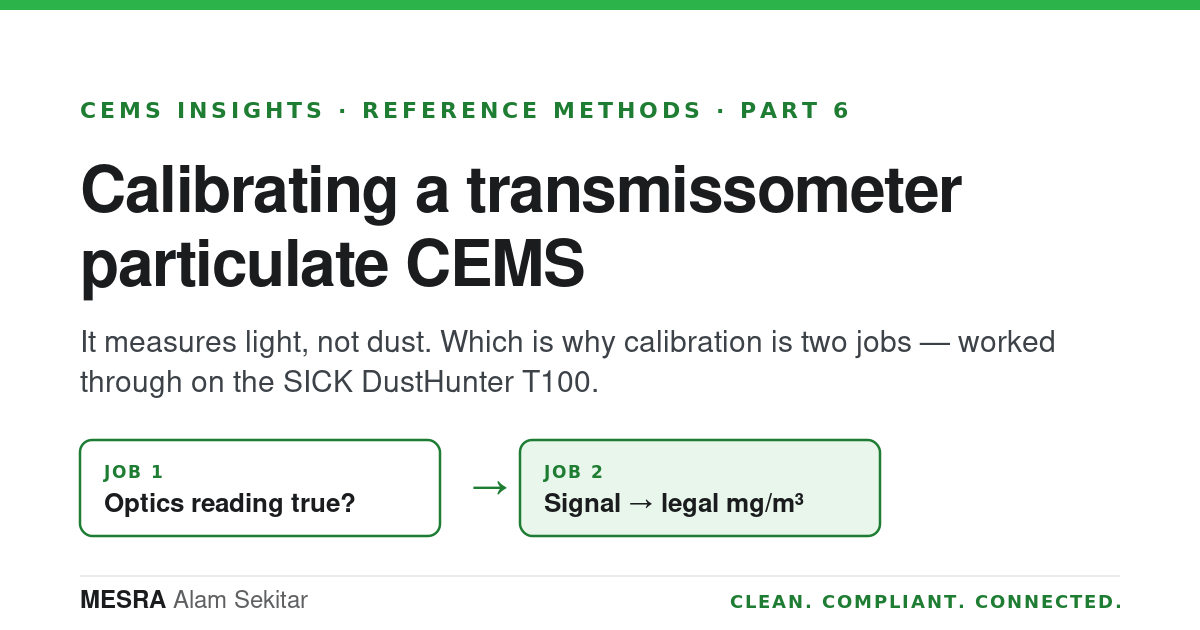
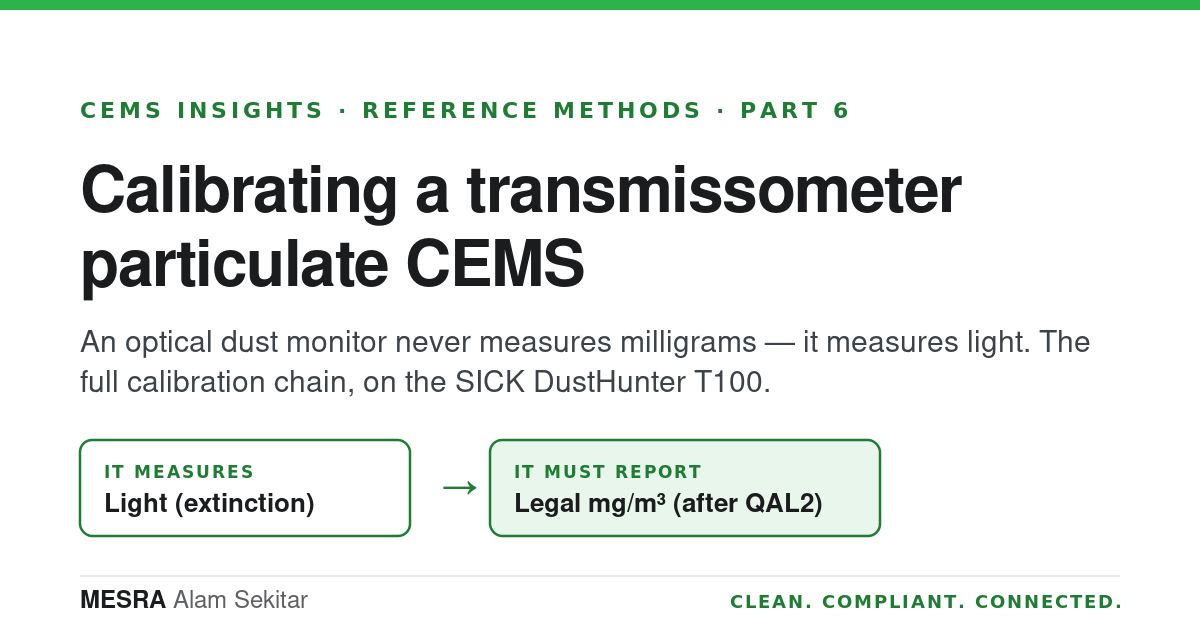
Dedupe transmissometer calibration posts; keep dust-CEMS version as reference-methods Part 6
Two near-identical calibration posts were live for the same topic. Keep the
stronger five-link version and remove the duplicate.

- Delete duplicate -tpm-cems- post
- Retag surviving -dust-cems- post: dust-cems/2 (series never existed) ->
  reference-methods/6; rewrite series intro line
- series.yml: reference-methods total 5 -> 6
- Convert its raw markdown table to .fig.report (site has no table CSS)
- Sharpen R2 section with the low-level-cluster carve-out (§5.3.9)
- Fix contact CTA to house pattern; add OG image front matter
- Repoint inbound links (in-situ-anatomy, qal1-certificate) to surviving slug
- Update OG card wording to match; last_modified_at bumps on the two edited
  2026-07-10 posts

Changed region(s): [[0.0617, 0.5127, 0.925, 0.6333], [0.3392, 0.6937, 0.7092, 0.8746], [0.0925, 0.7238, 0.3083, 0.8143]]

diff --git a/_posts/2026-07-14-calibrating-transmissometer-dust-cems-dusthunter-t100.md b/_posts/2026-07-14-calibrating-transmissometer-dust-cems-dusthunter-t100.md
@@ -4,11 +4,12 @@ title: "Calibrating a transmissometer dust CEMS: from light beam to legal mg/m³
 full_title: "How to Calibrate a Transmissometer Dust CEMS (DustHunter T100) | Mesra"
 date: 2026-07-14 00:05:00
 description: "An optical dust monitor never measures milligrams — it measures light. The full calibration chain for a transmissometer TPM CEMS, worked through on the SICK DustHunter T100: normalisation, linearity, initial setting, QAL2 and QAL3."
-series: dust-cems
-part: 2
+image: /assets/og/calibrating-transmissometer-t100.png
+series: reference-methods
+part: 6
 ---
 
-*Dust CEMS in practice — Part 2 of 3. A hands-on track for operators running an optical dust monitor, using the SICK DustHunter T100 — the double-pass transmissometer we install on biomass boilers — as the worked example throughout.*
+*The reference methods behind your CEMS — Part 6. A hands-on walk-through for operators running an optical dust monitor, using the SICK DustHunter T100 — the double-pass transmissometer we install on biomass boilers — as the worked example throughout. Drawn from the DOE CEMS Guidelines (Version 8, 2025), which we helped develop.*
 
 Here is the fact that every other question about dust-CEMS calibration hangs from: **a transmissometer never measures dust concentration.** It measures light. The DustHunter T100's own QAL1 certificate says so in one sentence — *"the measuring system uses the measured quantities of transmission, opacity and extinction, wherein transmission is determined as the primary optical quantity."* Every mg/m³ figure the instrument will ever report to DOE is a *derived* number, and the thing that derives it — the calibration function — is built on your stack, on your process, against manual gravimetric sampling.
 
@@ -20,7 +21,7 @@ The physics first, because it explains everything downstream. A transmissometer 
 
 Proportional — but with a proportionality constant that belongs to *your* dust. The DOE Guidelines put it plainly: the concentration calibration factor of an optical extinction instrument is *"dependent on particle size, composition, shape, colour and refractive index"* (Guidelines V8, Table 3.2). Fly ash from EFB fibre, sawdust char and rubberwood smoke all attenuate light differently per milligram. No factory, and no test dust, can know that constant in advance — which is why the same table says a transmissometer *"gives a measure of particulate concentration after calibration with gravimetric SRM."*
 
-There's an honest reminder of this printed inside the T100's own certificate: during EN 15267-3 suitability testing, the requirement on the determination coefficient R² of the *laboratory* calibration function was noted as not fulfilled — lab test dust simply isn't your flue gas. The certificate passes the system anyway, on the strength of everything else, because the calibration that legally matters is never the laboratory one. It's the one performed on your stack, which is the subject of the rest of this post.
+There's an honest reminder of this printed inside the T100's own certificate: during EN 15267-3 suitability testing, the requirement on the determination coefficient R² of the *laboratory* calibration function was noted as not fulfilled. Read cold, that sounds alarming — but it's a statistical artefact, not a fault, and it's worth understanding because you'll meet the same effect on your own stack. When dust concentrations are low and tightly clustered, there's little spread for a regression line to "explain," so R² falls even when the instrument is behaving perfectly. The DOE Guidelines carve out exactly this case: an R² below 0.9 *"does not necessarily indicate a QAL2 failure when the emissions are low level cluster,"* and *"the variability test shall always be considered as the definitive test"* (§5.3.9). The same certificate shows the system passing the metric that actually counts — a total expanded uncertainty of **8.1% of the ELV against a 22.5% allowance** (more on that below). The lesson carries straight to site work: judge a transmissometer's calibration on the variability test and uncertainty, never on R² alone. The calibration that legally matters is never the laboratory one anyway — it's the one performed on your stack, which is the subject of the rest of this post.
 
 <figure class="fig flow">
 <p class="fig-title">The five links in the dust-CEMS calibration chain</p>
@@ -92,15 +93,37 @@ A calibration function is a snapshot. Two ongoing procedures keep it honest.
 
 ## The chain on one page
 
-| Link | What's calibrated | Against what | Minimum frequency | Who |
-|---|---|---|---|---|
-| QAL1 | Instrument design | EN 15267 lab + field test | Once (certificate validity) | Manufacturer + TÜV/MCERTS |
-| Normalisation + linearity | Optical zero, span, straightness | Clean path + certified filter glasses | Install, then per service/QAL3 cycle | Installer / operator |
-| Initial setting | First mg/m³ scale | ≥5 gravimetric SRM runs | At installation | Stack-test team |
-| QAL2-CVT | Legal calibration function + valid range | ≥15 gravimetric SRM runs over 3 days | Before data connection; on trigger events | DOE-registered CEMS tester |
-| QAL3 | Drift control | Zero point + filter glasses, control charts | ≤ maintenance interval (3 months for T100); DOE recommends 4-weekly | Operator |
-| AST | Calibration function still valid | Reduced SRM campaign | Yearly | DOE-registered CEMS tester |
+<figure class="fig report">
+<p class="fig-title">The calibration chain on one page</p>
+<div class="rep-rows">
+  <div class="rep-row">
+    <span class="rep-k">1</span>
+    <span class="rep-body"><span class="rep-name">QAL1 — instrument design</span><span class="rep-desc">Proven against the EN 15267 lab + field test. Once, for the certificate's validity. By the manufacturer + TÜV/MCERTS.</span></span>
+  </div>
+  <div class="rep-row">
+    <span class="rep-k">2</span>
+    <span class="rep-body"><span class="rep-name">Normalisation + linearity — optical zero, span, straightness</span><span class="rep-desc">Against a clean path + certified filter glasses. At install, then every service / QAL3 cycle. By the installer / operator. Produces no mg/m³.</span></span>
+  </div>
+  <div class="rep-row">
+    <span class="rep-k">3</span>
+    <span class="rep-body"><span class="rep-name">Initial setting — first mg/m³ scale</span><span class="rep-desc">Against ≥5 gravimetric SRM runs. At installation. By the stack-test team. A working scale, no legal weight.</span></span>
+  </div>
+  <div class="rep-row hl">
+    <span class="rep-k">4</span>
+    <span class="rep-body"><span class="rep-name">QAL2-CVT — legal calibration function + valid range</span><span class="rep-desc">Against ≥15 gravimetric SRM runs over 3 days. Before data connection, and on trigger events. By a DOE-registered CEMS tester. This is the one that counts.</span></span>
+  </div>
+  <div class="rep-row">
+    <span class="rep-k">5</span>
+    <span class="rep-body"><span class="rep-name">QAL3 — drift control</span><span class="rep-desc">Zero point + filter glasses, plotted on control charts. At most every maintenance interval (3 months for the T100); DOE recommends 4-weekly. By the operator.</span></span>
+  </div>
+  <div class="rep-row">
+    <span class="rep-k">6</span>
+    <span class="rep-body"><span class="rep-name">AST — calibration function still valid</span><span class="rep-desc">A reduced SRM campaign re-checking the QAL2 function. Yearly. By a DOE-registered CEMS tester.</span></span>
+  </div>
+</div>
+<figcaption>Six procedures, one purpose: making a light measurement legally mean milligrams per cubic metre. Only after link 4 does the data legally count.</figcaption>
+</figure>
 
 The instrument measures light superbly — the certificate proves that once, at the factory. Whether that light legally means milligrams on *your* stack is decided by this chain, and most of its links are recurring site work, not equipment features. It's also, in our experience, where dust-CEMS compliance is genuinely won or lost: not in the brochure comparison, but in whether the filter glasses are certified and dedicated, the SRM conversions are done on the right basis, and the control chart actually gets plotted.
 
-If you're commissioning a transmissometer, planning a QAL2 on a biomass boiler, or staring at a control chart that's wandering — [talk to us]({{ '/#contact' | relative_url }}). Calibration is the part of this business we'd rather you get right the first time.
+If you're commissioning a transmissometer, planning a QAL2 on a biomass boiler, or staring at a control chart that's wandering — [talk to us]({{ '/' | relative_url }}#contact). Calibration is the part of this business we'd rather you get right the first time.

diff --git a/_posts/2026-07-10-in-situ-cems-installation-anatomy.md b/_posts/2026-07-10-in-situ-cems-installation-anatomy.md
@@ -3,6 +3,7 @@ layout: post
 title: "Anatomy of an in-situ CEMS install: what's actually on the stack"
 full_title: "Anatomy of an In-Situ CEMS Install | Mesra"
 date: 2026-07-10 00:05:00
+last_modified_at: 2026-07-14
 description: "Analyser, purge air, MCU, DAS and power distribution — what a double-pass in-situ CEMS installation actually looks like on a biomass boiler stack, using the SICK DustHunter T100 as a worked example."
 ---
 
@@ -78,7 +79,7 @@ Both the analyser and the DAS need power, usually from a dedicated **power distr
 
 None of this hardware is arbitrary. Where the analyser sits on the duct is governed by the [siting and measurement-plane rules]({{ '/insights/cems-siting-sample-ports-measurement-plane/' | relative_url }}) we cover separately — straight-length from disturbances, distance from the wall, access platform. Which sampling method it uses at all is a choice you have to [justify to DOE]({{ '/insights/how-cems-measures-extractive-in-situ-sampling/' | relative_url }}) under §3.2, submitted with the equipment's QAL1 certificate. And once it's wired up, the DAS's own output feeds directly into the CEMS-DIS chain we've written about separately — the same 75%-availability validity rule applies at both ends.
 
-Get any one piece wrong — a single-pass analyser, an undersized purge air supply, a DAS that can't produce the right averages — and the problem doesn't show up as a design flaw. It shows up months later, as a failed QAL2 or a registration DOE won't approve. Once the hardware is right, the next question is making it read true: how a transmittance system like this is [calibrated from light beam to legal mg/m³]({{ '/insights/calibrating-transmissometer-tpm-cems-dusthunter-t100/' | relative_url }}).
+Get any one piece wrong — a single-pass analyser, an undersized purge air supply, a DAS that can't produce the right averages — and the problem doesn't show up as a design flaw. It shows up months later, as a failed QAL2 or a registration DOE won't approve. Once the hardware is right, the next question is making it read true: how a transmittance system like this is [calibrated from light beam to legal mg/m³]({{ '/insights/calibrating-transmissometer-dust-cems-dusthunter-t100/' | relative_url }}).
 
 **Planning an in-situ installation and want the hardware specified right the first time?** [Talk to us]({{ '/' | relative_url }}#contact) — we design, supply and install complete CEMS, including double-pass in-situ systems like the DustHunter T100, against the same DOE CEMS Guidelines we helped write.
 

diff --git a/_posts/2026-07-10-qal1-certificate-tpm-opacity-biomass-boiler.md b/_posts/2026-07-10-qal1-certificate-tpm-opacity-biomass-boiler.md
@@ -3,6 +3,7 @@ layout: post
 title: "Reading a QAL1 certificate: does it actually cover TPM and opacity on your biomass boiler?"
 full_title: "How to Read a QAL1 Certificate for a Biomass Boiler CEMS | Mesra"
 date: 2026-07-10 00:15:00
+last_modified_at: 2026-07-14
 description: "A valid EN 15267 / QAL1 certificate doesn't mean a system suits your boiler. Two checks — what it actually measures, and what range it's certified to — worked through using two real, public certificates."
 series: biomass-boilers
 ---
@@ -119,7 +120,7 @@ Two checks, in this order:
 1. **Does the certificate list opacity, or only dust?** If your boiler needs both under Regulation 12(3) and the Second Schedule, a dust-only certificate can't be the whole answer — you'd need a second instrument, or a different analyser.
 2. **Does the certified range reach your ELV, with margin?** Look up your own Second Schedule row — 150 mg/m³ for general solid fuel — and check it against the certificate's stated range, not the sales brochure's.
 
-Both checks take five minutes. Before you sign anything, go to **[qal1.de](https://www.qal1.de/)**, search the exact manufacturer and model on your quotation, and open the certificate yourself — don't rely on a datasheet's summary of what it says. We cover the physical side of a compliant installation — what's actually mounted on the stack — in [Anatomy of an in-situ CEMS install]({{ '/insights/in-situ-cems-installation-anatomy/' | relative_url }}), and the broader extractive-vs-in-situ decision in [how a CEMS actually measures]({{ '/insights/how-cems-measures-extractive-in-situ-sampling/' | relative_url }}). That shared R² caveat, incidentally, is not the red flag it looks like — we explain why in [calibrating a transmissometer particulate CEMS]({{ '/insights/calibrating-transmissometer-tpm-cems-dusthunter-t100/' | relative_url }}).
+Both checks take five minutes. Before you sign anything, go to **[qal1.de](https://www.qal1.de/)**, search the exact manufacturer and model on your quotation, and open the certificate yourself — don't rely on a datasheet's summary of what it says. We cover the physical side of a compliant installation — what's actually mounted on the stack — in [Anatomy of an in-situ CEMS install]({{ '/insights/in-situ-cems-installation-anatomy/' | relative_url }}), and the broader extractive-vs-in-situ decision in [how a CEMS actually measures]({{ '/insights/how-cems-measures-extractive-in-situ-sampling/' | relative_url }}). That shared R² caveat, incidentally, is not the red flag it looks like — we explain why in [calibrating a transmissometer dust CEMS]({{ '/insights/calibrating-transmissometer-dust-cems-dusthunter-t100/' | relative_url }}).
 
 **Evaluating a quotation and want a second opinion on whether the certificate actually fits your boiler?** [Talk to us]({{ '/' | relative_url }}#contact) — we read these certificates against the DOE CEMS Guidelines we helped write, before anything gets installed.
 